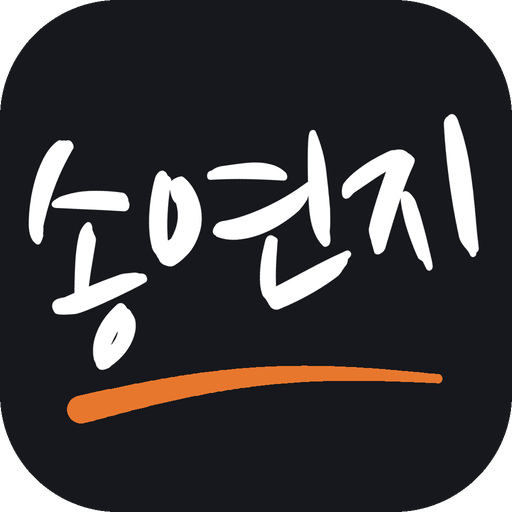
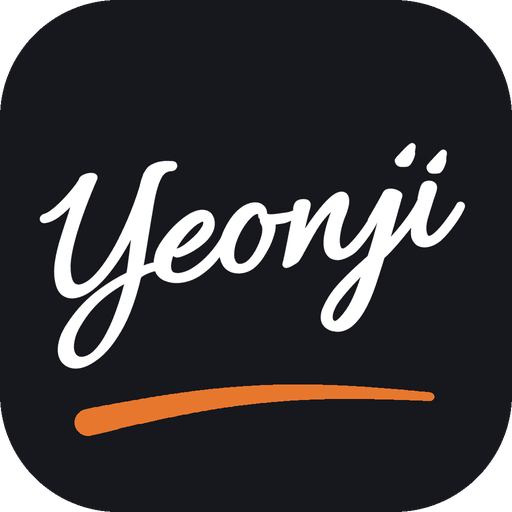
feat: 지원동기 회사별 버전 관리 + 영문 서명 파비콘
- 지원동기를 회사별 버전 목록으로 변경 (컨트롤에프 · 슈어소프트테크)
  - ?m=<id> 링크로 버전 선택, 없으면 기본 버전
  - 편집 모드: 버전 전환 · 새 버전(복사) · 회사명 변경 · 기본 지정 · 링크 복사 · 삭제
  - PDF 파일명에 회사명 자동 추가
  - 예전 형식 임시저장/불러오기 파일 자동 변환 (normalize)
- 파비콘: 영문 서명 'Yeonji' (Allura, OFL) + 주황 밑줄
- 수정: PDF 버튼이 화면 밖 lazy 이미지(프로젝트 카드)를 기다리며 멈추던 문제

Changed region(s): [[0.0312, 0.2188, 0.9375, 0.7188], [0.125, 0.6875, 0.875, 0.875]]

diff --git a/src/sections/MotivationSkills.tsx b/src/sections/MotivationSkills.tsx
@@ -1,23 +1,111 @@
 import { useEditor } from '../editor/EditorContext';
 import { Editable } from '../components/Editable';
-import { Chips, EditableList } from '../components/EditControls';
+import { Chips, EdBtn, EditableList } from '../components/EditControls';
 import { Block, SectionHead, Sheet } from '../components/Layout';
-import type { SkillLevel } from '../types';
+import { SLUG, motivationLink } from '../lib/migrate';
+import type { Motivation, SkillLevel } from '../types';
+
+/**
+ * 지원동기 버전 관리 (편집 모드 전용 · 화면/PDF에는 안 보임)
+ * 회사마다 버전을 따로 두고, 보기 링크(?m=id)로 골라서 보여줌 → 서로 덮어쓰지 않음
+ */
+function MotivationSwitcher() {
+  const { data, motivation, setMotivationId, mutate, toast } = useEditor();
+  const list = data.motivations;
+  const isDefault = motivation.id === data.defaultMotivation;
+
+  const askSlug = (suggest: string): string | null => {
+    for (;;) {
+      const v = prompt('링크에 쓸 영문 이름 (소문자·숫자·-)\n예: kakao → 사이트주소?m=kakao', suggest);
+      if (v == null) return null;
+      const s = v.trim().toLowerCase();
+      if (!SLUG.test(s)) { alert('영문 소문자·숫자·- 만 쓸 수 있어요.'); continue; }
+      if (list.some((m) => m.id === s)) { alert('이미 있는 이름이에요.'); continue; }
+      return s;
+    }
+  };
+
+  const add = () => {
+    const company = prompt('어느 회사용 지원동기인가요? (현재 버전을 복사해서 시작해요)', '');
+    if (!company?.trim()) return;
+    const id = askSlug(`v${list.length + 1}`);
+    if (!id) return;
+    const copy: Motivation = { ...structuredClone(motivation), id, company: company.trim() };
+    mutate((d) => { d.motivations.push(copy); });
+    setMotivationId(id);
+    toast(`'${copy.company}' 버전을 만들었어요. 이제 이 버전만 수정돼요.`, 3500);
+  };
+
+  const rename = () => {
+    const company = prompt('회사명', motivation.company);
+    if (!company?.trim()) return;
+    mutate((d) => { d.motivations.find((m) => m.id === motivation.id)!.company = company.trim(); });
+  };
+
+  const setDefault = () => {
+    mutate((d) => { d.defaultMotivation = motivation.id; });
+    setMotivationId(motivation.id);
+    toast(`기본 버전을 '${motivation.company}'(으)로 바꿨어요. 링크 없이 접속하면 이 버전이 보여요.`, 3500);
+  };
+
+  const remove = () => {
+    if (list.length <= 1) { toast('버전이 하나뿐이라 지울 수 없어요.'); return; }
+    if (!confirm(`'${motivation.company}' 지원동기를 삭제할까요?`)) return;
+    const rest = list.filter((m) => m.id !== motivation.id);
+    const nextDefault = isDefault ? rest[0].id : data.defaultMotivation;
+    mutate((d) => {
+      d.motivations = d.motivations.filter((m) => m.id !== motivation.id);
+      d.defaultMotivation = nextDefault;
+    });
+    setMotivationId(nextDefault);
+  };
+
+  const copyLink = async () => {
+    const url = motivationLink(motivation.id, data.defaultMotivation);
+    try { await navigator.clipboard.writeText(url); toast(`'${motivation.company}'용 링크를 복사했어요`); }
+    catch { prompt('이 링크를 복사하세요', url); }
+  };
+
+  return (
+    <div className="ed-ctl mot-switch">
+      <label className="mot-switch__label">
+        지원동기 버전
+        <select value={motivation.id} onChange={(e) => setMotivationId(e.target.value)}>
+          {list.map((m) => (
+            <option key={m.id} value={m.id}>
+              {m.company}{m.id === data.defaultMotivation ? ' (기본)' : ''} · ?m={m.id}
+            </option>
+          ))}
+        </select>
+      </label>
+      <EdBtn onClick={add}>+ 새 버전</EdBtn>
+      <EdBtn onClick={rename}>회사명 변경</EdBtn>
+      {!isDefault && <EdBtn onClick={setDefault}>기본으로</EdBtn>}
+      <EdBtn onClick={() => void copyLink()}>링크 복사</EdBtn>
+      <EdBtn className="ed-danger" onClick={remove}>삭제</EdBtn>
+    </div>
+  );
+}
 
 /** 2페이지: 지원동기 + 스킬 */
 export function MotivationSkills() {
-  const { edit, isHidden } = useEditor();
+  const { edit, isHidden, motivationIndex } = useEditor();
   const allHidden = isHidden('motivation') && isHidden('skills');
   if (allHidden && !edit) return null;
+  const mp = `motivations.${motivationIndex}`;
 
   return (
     <Sheet id="motivation-skills" className="sheet--motivation" hidden={allHidden}>
       <Block section="motivation">
         <SectionHead title="Motivation for Application." section="motivation" id="motivation" />
-        <Editable as="h3" path="motivation.heading" className="mot-heading" placeholder="지원동기 제목" />
-        <EditableList<string> path="motivation.paragraphs" as="div" className="mot-body" addLabel="문단" makeNew={() => '새 문단'}>
-          {(_, p, __, x) => <p><Editable path={p} rich />{x}</p>}
-        </EditableList>
+        {edit && <MotivationSwitcher />}
+        {/* key: 버전을 바꾸면 편집 칸을 새로 그려 내용이 섞이지 않게 */}
+        <div key={mp}>
+          <Editable as="h3" path={`${mp}.heading`} className="mot-heading" placeholder="지원동기 제목" />
+          <EditableList<string> path={`${mp}.paragraphs`} as="div" className="mot-body" addLabel="문단" makeNew={() => '새 문단'}>
+            {(_, p, __, x) => <p><Editable path={p} rich />{x}</p>}
+          </EditableList>
+        </div>
       </Block>
 
       <Block section="skills">

diff --git a/src/editor/EditorContext.tsx b/src/editor/EditorContext.tsx
@@ -1,11 +1,12 @@
 import { createContext, useCallback, useContext, useEffect, useMemo, useRef, useState, type ReactNode } from 'react';
 import original from '../data/portfolio.json';
-import type { PortfolioData, SectionKey } from '../types';
+import type { Motivation, PortfolioData, SectionKey } from '../types';
 import { getIn, setIn } from '../lib/path';
+import { motivationFromUrl, normalize, pickMotivation, syncMotivationUrl } from '../lib/migrate';
 import { sha256 } from '../lib/sha256';
 import { KEYS, store } from '../lib/storage';
 
-const ORIGINAL = original as PortfolioData;
+const ORIGINAL = normalize(original);
 /** 사이트 원본(portfolio.json)이 바뀌면 이전 임시저장은 자동 적용하지 않기 위한 기준값 */
 export const BASE_HASH = sha256(JSON.stringify(ORIGINAL));
 
@@ -18,7 +19,10 @@ interface Draft {
 function loadDraft(): Draft | null {
   const raw = store.get(KEYS.draft);
   if (!raw) return null;
-  try { return JSON.parse(raw) as Draft; } catch { return null; }
+  try {
+    const d = JSON.parse(raw) as Draft;
+    return { ...d, data: normalize(d.data) };
+  } catch { return null; }
 }
 
 export interface EditorApi {
@@ -33,6 +37,10 @@ export interface EditorApi {
   /** 구조 변경(추가/삭제/순서) — 복제본을 직접 수정 */
   mutate: (fn: (draft: PortfolioData) => void) => void;
   replaceData: (data: PortfolioData) => void;
+  /** 지금 보여주는 지원동기 버전 (?m= 또는 기본값) */
+  motivation: Motivation;
+  motivationIndex: number;
+  setMotivationId: (id: string) => void;
   resetToOriginal: () => void;
   isHidden: (key: SectionKey) => boolean;
   toggleHidden: (key: SectionKey) => void;
@@ -62,7 +70,15 @@ export function EditorProvider({ children }: { children: ReactNode }) {
   const [edit, setEdit] = useState(false);
   const [paper, setPaper] = useState(() => new URLSearchParams(location.search).has('paper'));
   const [toastMsg, setToastMsg] = useState<{ text: string; id: number } | null>(null);
+  const [motivationId, setMotivationIdState] = useState<string | null>(motivationFromUrl);
   const dirty = useRef(false);
+
+  const motivation = pickMotivation(data.motivations, motivationId, data.defaultMotivation);
+  const motivationIndex = data.motivations.indexOf(motivation);
+  const setMotivationId = useCallback((id: string) => {
+    setMotivationIdState(id);
+    syncMotivationUrl(id, data.defaultMotivation);
+  }, [data.defaultMotivation]);
 
   const toast = useCallback((text: string, ms = 2400) => {
     const id = Date.now();
@@ -93,13 +109,14 @@ export function EditorProvider({ children }: { children: ReactNode }) {
   const api = useMemo<EditorApi>(() => ({
     data, edit, paper, setEdit, setPaper, toastMsg, toast, update, mutate,
     get: <T,>(path: string) => getIn(data, path) as T,
-    replaceData: (d) => { dirty.current = true; setData(d); },
+    replaceData: (d) => { dirty.current = true; setData(normalize(d)); },
     resetToOriginal: () => { store.del(KEYS.draft); dirty.current = false; setData(ORIGINAL); },
+    motivation, motivationIndex, setMotivationId,
     isHidden: (key) => !!data.hidden?.[key],
     toggleHidden: (key) => mutate((d) => { d.hidden = { ...d.hidden, [key]: !d.hidden?.[key] }; }),
     takeStaleDraft: () => { const s = stale.current; stale.current = null; return s; },
     clearDraft: () => store.del(KEYS.draft),
-  }), [data, edit, paper, toastMsg, toast, update, mutate]);
+  }), [data, edit, paper, toastMsg, toast, update, mutate, motivation, motivationIndex, setMotivationId]);
 
   return <Ctx.Provider value={api}>{children}</Ctx.Provider>;
 }

diff --git a/src/lib/lib.test.ts b/src/lib/lib.test.ts
@@ -3,6 +3,7 @@ import { describe, expect, it } from 'vitest';
 import data from '../data/portfolio.json';
 import { EDIT_PASSWORD_SHA256 } from '../components/Dialogs';
 import { linkKind } from './links';
+import { SLUG, normalize, pickMotivation } from './migrate';
 import { getIn, setIn } from './path';
 import { sha256 } from './sha256';
 
@@ -40,6 +41,33 @@ describe('linkKind', () => {
     ['tel:010', 'tel'],
     ['https://moon-kkkok.vercel.app/', 'web'],
   ])('%s → %s', (url, kind) => expect(linkKind(url)).toBe(kind));
+});
+
+describe('지원동기 버전', () => {
+  it('예전 형식(motivation 1개)을 버전 목록으로 변환', () => {
+    const old = { ...data, motivation: { heading: 'h', paragraphs: ['p'] } } as Record<string, unknown>;
+    delete old.motivations;
+    delete old.defaultMotivation;
+    const n = normalize(old);
+    expect(n.motivations).toEqual([{ id: 'default', company: '기본', heading: 'h', paragraphs: ['p'] }]);
+    expect(n.defaultMotivation).toBe('default');
+    expect('motivation' in n).toBe(false);
+  });
+  it('없는 기본값은 첫 버전으로 보정', () => {
+    expect(normalize({ ...data, defaultMotivation: 'nope' }).defaultMotivation).toBe(data.motivations[0].id);
+  });
+  it('?m= 로 고르고, 없거나 잘못되면 기본 버전', () => {
+    const list = data.motivations;
+    expect(pickMotivation(list, 'suresoft', 'controlf').company).toBe('슈어소프트테크');
+    expect(pickMotivation(list, null, 'controlf').company).toBe('컨트롤에프');
+    expect(pickMotivation(list, 'unknown', 'controlf').company).toBe('컨트롤에프');
+  });
+  it('portfolio.json: 버전 id가 겹치지 않고 링크용 형식', () => {
+    const ids = data.motivations.map((m) => m.id);
+    expect(new Set(ids).size).toBe(ids.length);
+    ids.forEach((id) => expect(id).toMatch(SLUG));
+    expect(ids).toContain(data.defaultMotivation);
+  });
 });
 
 describe('portfolio.json', () => {

diff --git a/src/App.tsx b/src/App.tsx
@@ -57,10 +57,12 @@ function Portfolio() {
     (document.activeElement as HTMLElement | null)?.blur?.();
     s.paperBefore = paperRef.current;
     s.titleBefore = document.title;
-    document.title = data.meta.pdfFileName || '포트폴리오';
+    // PDF 파일명: 송연지_포트폴리오_회사명 (지원동기 버전별로 구분)
+    const company = editor.isHidden('motivation') ? '' : editor.motivation.company;
+    document.title = [data.meta.pdfFileName || '포트폴리오', company].filter(Boolean).join('_');
     flushSync(() => setPaper(true));
     if (docRef.current) fitSheets(docRef.current);
-  }, [data.meta.pdfFileName, setPaper]);
+  }, [data.meta.pdfFileName, setPaper, editor]);
 
   const afterPrint = useCallback(() => {
     const s = printState.current;
@@ -80,9 +82,13 @@ function Portfolio() {
   }, [beforePrint, afterPrint]);
 
   const downloadPdf = async () => {
-    const imgs = Array.from(docRef.current?.querySelectorAll('img') ?? []);
-    await Promise.all(imgs.map((img) => (img.complete ? 0 : new Promise((r) => { img.onload = img.onerror = r; }))));
-    await document.fonts?.ready;
+    // PDF에 들어가는 이미지만 기다림 (웹 카드의 lazy 이미지는 화면에 안 보이면 영영 로드되지 않으므로 제외) + 최대 3초
+    const imgs = Array.from(docRef.current?.querySelectorAll<HTMLImageElement>('.sheet:not(.web-only) img') ?? []);
+    const loaded = Promise.all(imgs.map((img) => (img.complete ? 0 : new Promise((r) => {
+      img.addEventListener('load', r, { once: true });
+      img.addEventListener('error', r, { once: true });
+    }))));
+    await Promise.race([Promise.all([loaded, document.fonts?.ready]), new Promise((r) => setTimeout(r, 3000))]);
     beforePrint();
     toast('인쇄 창에서 대상을 ‘PDF로 저장’으로 선택하세요', 3500);
     setTimeout(() => { window.print(); afterPrint(); }, 60);   // print()는 창이 닫힐 때까지 대기

diff --git a/src/lib/migrate.ts b/src/lib/migrate.ts
@@ -1,0 +1,46 @@
+import type { Motivation, PortfolioData } from '../types';
+
+/** 예전 형식(지원동기 1개짜리 `motivation`)의 임시저장·불러오기 파일을 현재 형식으로 변환 */
+export function normalize(raw: unknown): PortfolioData {
+  const d = { ...(raw as Record<string, unknown>) } as Record<string, unknown> & Partial<PortfolioData>;
+  const legacy = d.motivation as { heading: string; paragraphs: string[] } | undefined;
+  if (!Array.isArray(d.motivations)) {
+    d.motivations = legacy ? [{ id: 'default', company: '기본', ...legacy }] : [];
+  }
+  delete d.motivation;
+  if (!d.motivations.length) {
+    d.motivations.push({ id: 'default', company: '기본', heading: '', paragraphs: [] });
+  }
+  if (!d.motivations.some((m) => m.id === d.defaultMotivation)) {
+    d.defaultMotivation = d.motivations[0].id;
+  }
+  return d as PortfolioData;
+}
+
+export const SLUG = /^[a-z0-9][a-z0-9-]{0,30}$/;
+
+/** URL ?m= 값 */
+export function motivationFromUrl(): string | null {
+  return new URLSearchParams(location.search).get('m');
+}
+
+/** 주소창의 ?m= 를 바꿈 (기본 버전이면 깔끔하게 제거) */
+export function syncMotivationUrl(id: string, defaultId: string) {
+  const url = new URL(location.href);
+  if (id === defaultId) url.searchParams.delete('m');
+  else url.searchParams.set('m', id);
+  history.replaceState(null, '', url);
+}
+
+export function motivationLink(id: string, defaultId: string): string {
+  const url = new URL(location.href);
+  url.hash = '';
+  url.searchParams.delete('paper');
+  if (id === defaultId) url.searchParams.delete('m');
+  else url.searchParams.set('m', id);
+  return url.toString();
+}
+
+export function pickMotivation(list: Motivation[], id: string | null, fallback: string): Motivation {
+  return list.find((m) => m.id === id) ?? list.find((m) => m.id === fallback) ?? list[0];
+}

diff --git a/src/styles.css b/src/styles.css
@@ -259,6 +259,15 @@ body.modal-open { overflow: hidden; }
 .pmodal .project__body { border-top: 0; padding-top: 1.6em; }
 .pmodal .project__body::before { content: ''; height: 1px; background: var(--line); margin-bottom: .2em; }
 
+/* 지원동기 버전 관리 (편집 모드) */
+.mot-switch {
+  flex-wrap: wrap; align-items: center; gap: 6px; margin: -.6em 0 1.4em; padding: 10px 12px;
+  background: #fff8f2; border: 1px dashed #f0c39f; border-radius: 12px; font-size: 13px;
+}
+.mot-switch__label { display: inline-flex; align-items: center; gap: 8px; font-weight: 700; color: var(--accent-ink); margin-right: 4px; }
+.mot-switch select { font: inherit; font-weight: 600; color: var(--ink); height: 30px; padding: 0 8px; border: 1px solid #f0c39f; border-radius: 7px; background: #fff; max-width: 100%; }
+body.editing .mot-switch .ed-btn { display: inline-flex; }
+
 /* 지원동기·경력: 핵심 문장 굵게 */
 .mot-body b { box-shadow: inset 0 -.42em 0 #fde2cb; -webkit-box-decoration-break: clone; box-decoration-break: clone; }
 /* 경력·프로젝트: 굵게 + 옅은 형광펜 → 작은 글씨(PDF)에서도 핵심이 바로 보이게 */

diff --git a/src/types.ts b/src/types.ts
@@ -61,6 +61,16 @@ export interface Project {
   hidden?: boolean;
 }
 
+/** 지원동기 버전 (회사별로 하나씩) */
+export interface Motivation {
+  /** 링크용 영문 id → ?m=<id> */
+  id: string;
+  /** 지원 회사명 (화면에는 안 보이고 편집·PDF 파일명에 사용) */
+  company: string;
+  heading: string;
+  paragraphs: string[];
+}
+
 export interface DatedItem {
   date: string;
   text: string;
@@ -84,10 +94,9 @@ export interface PortfolioData {
     channels: ContactItem[];
   };
   about: AboutItem[];
-  motivation: {
-    heading: string;
-    paragraphs: string[];
-  };
+  /** ?m= 없이 접속했을 때 보여줄 지원동기 버전 id */
+  defaultMotivation: string;
+  motivations: Motivation[];
   skills: SkillLevel[];
   work: WorkItem[];
   projects: Project[];

diff --git a/README.md b/README.md
@@ -21,6 +21,16 @@
    - 사이트 반영: `GitHub에 저장` (본인 Fine-grained 토큰, Contents 읽기/쓰기) → `src/data/portfolio.json` 커밋 → Actions가 자동 재배포
    - 또는 `JSON 내보내기` 후 `src/data/portfolio.json` 교체
 
+### 지원동기 회사별 버전
+
+지원할 때마다 지원동기를 따로 관리하고, 서로 덮어쓰지 않습니다.
+
+- 편집 모드 → Motivation 섹션의 **지원동기 버전** 바: `+ 새 버전`(현재 버전 복사 → 회사명·링크 이름 입력) · `회사명 변경` · `기본으로` · `링크 복사` · `삭제`
+- 선택한 버전만 수정됨 · 다른 버전은 그대로
+- 회사별 링크: `https://songyeonji.github.io/portfolio/?m=suresoft` → 그 회사 버전으로 표시 (링크 없이 열면 **기본** 버전)
+- PDF 파일명에 회사명이 자동으로 붙음: `송연지_포트폴리오_슈어소프트테크.pdf`
+- 회사명·버전 목록은 화면/PDF에 나오지 않음 (단, 공개 사이트 코드에는 모든 버전이 포함돼요)
+
 > 정적 사이트라 비밀번호는 해시로만 들어있고 서버 검증은 없습니다. 방문자가 편집해도 그 사람 브라우저에만 남고, 사이트 원본을 바꾸려면 저장소 쓰기 권한(토큰)이 필요합니다.
 
 ### 비밀번호 바꾸기
